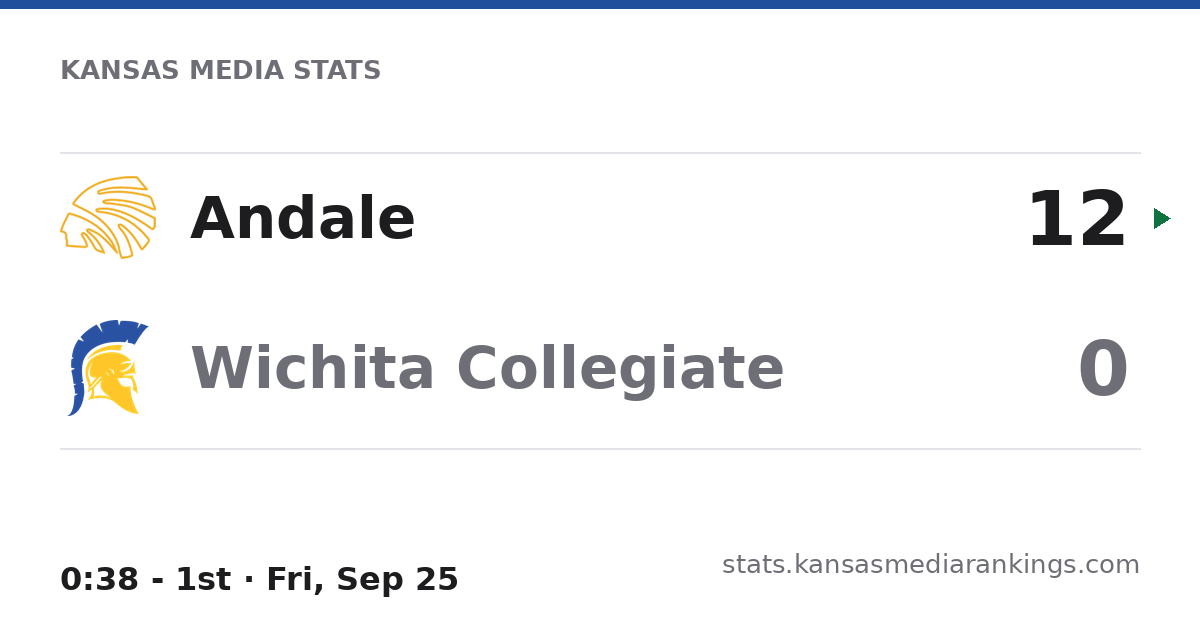
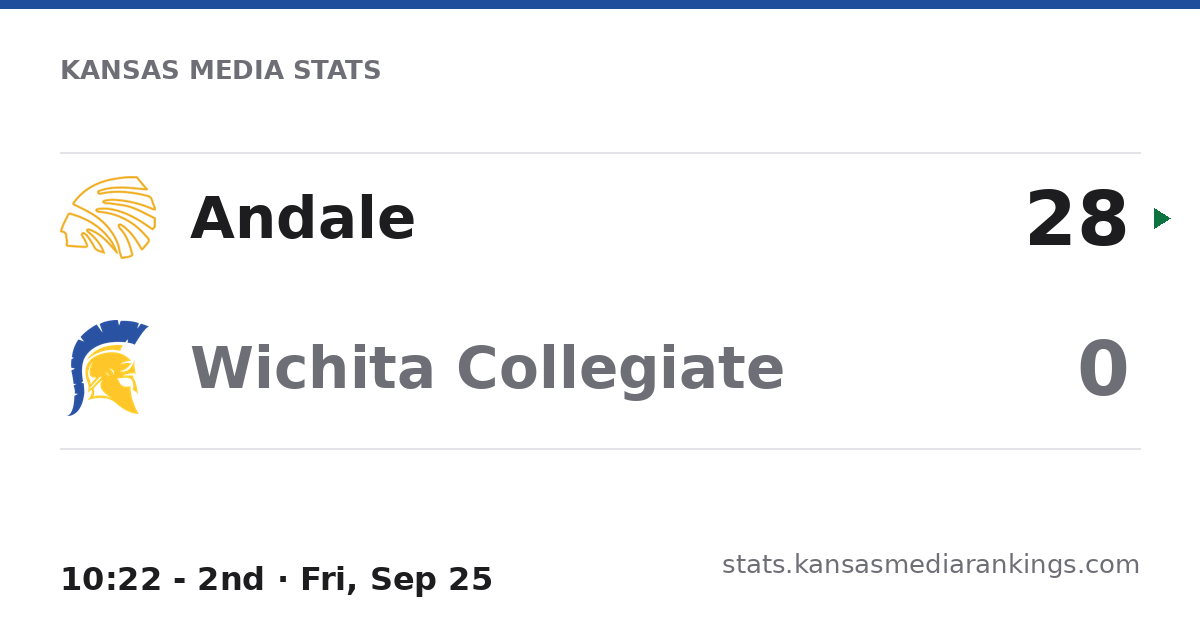
Score cards for games just finished

Changed region(s): [[0.0308, 0.8746, 0.4317, 0.9651], [0.8633, 0.3016, 0.9558, 0.3921]]

diff --git a/g/gmuhupacg/index.html b/g/gmuhupacg/index.html
@@ -1,21 +1,21 @@
 <!doctype html>
 <html lang="en"><head><meta charset="utf-8">
-<title>Andale 12, Wichita Collegiate 0 · Kansas Media Stats</title>
-<meta name="description" content="0:38 - 1st · Fri, Sep 25 · Play-by-play, box score and stats on Kansas Media Stats">
+<title>Andale 28, Wichita Collegiate 0 · Kansas Media Stats</title>
+<meta name="description" content="10:22 - 2nd · Fri, Sep 25 · Play-by-play, box score and stats on Kansas Media Stats">
 <meta property="og:type" content="website">
 <meta property="og:site_name" content="Kansas Media Stats">
-<meta property="og:title" content="Andale 12, Wichita Collegiate 0">
-<meta property="og:description" content="0:38 - 1st · Fri, Sep 25 · Play-by-play, box score and stats on Kansas Media Stats">
+<meta property="og:title" content="Andale 28, Wichita Collegiate 0">
+<meta property="og:description" content="10:22 - 2nd · Fri, Sep 25 · Play-by-play, box score and stats on Kansas Media Stats">
 <meta property="og:url" content="https://stats.kansasmediarankings.com/g/gmuhupacg/">
 <meta property="og:image" content="https://stats.kansasmediarankings.com/g/gmuhupacg/card.png">
 <meta property="og:image:width" content="1200">
 <meta property="og:image:height" content="630">
-<meta property="og:image:alt" content="Andale 12, Wichita Collegiate 0">
+<meta property="og:image:alt" content="Andale 28, Wichita Collegiate 0">
 <meta name="twitter:card" content="summary_large_image">
-<meta name="twitter:title" content="Andale 12, Wichita Collegiate 0">
-<meta name="twitter:description" content="0:38 - 1st · Fri, Sep 25 · Play-by-play, box score and stats on Kansas Media Stats">
+<meta name="twitter:title" content="Andale 28, Wichita Collegiate 0">
+<meta name="twitter:description" content="10:22 - 2nd · Fri, Sep 25 · Play-by-play, box score and stats on Kansas Media Stats">
 <meta name="twitter:image" content="https://stats.kansasmediarankings.com/g/gmuhupacg/card.png">
 <link rel="canonical" href="https://stats.kansasmediarankings.com/g/gmuhupacg/">
 <meta http-equiv="refresh" content="0; url=/?game=gmuhupacg">
 <script>location.replace('/?game=gmuhupacg' + (location.search ? '&' + location.search.slice(1) : ''));</script>
-</head><body><p><a href="/?game=gmuhupacg">Andale 12, Wichita Collegiate 0</a> · Kansas Media Stats</p></body></html>
+</head><body><p><a href="/?game=gmuhupacg">Andale 28, Wichita Collegiate 0</a> · Kansas Media Stats</p></body></html>
